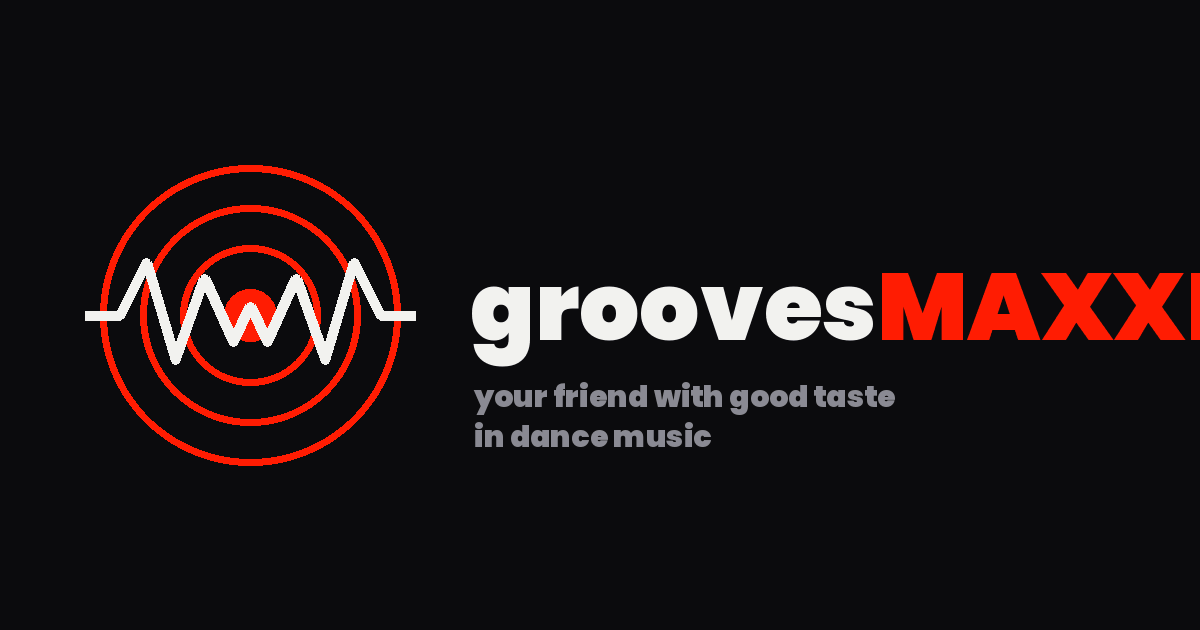
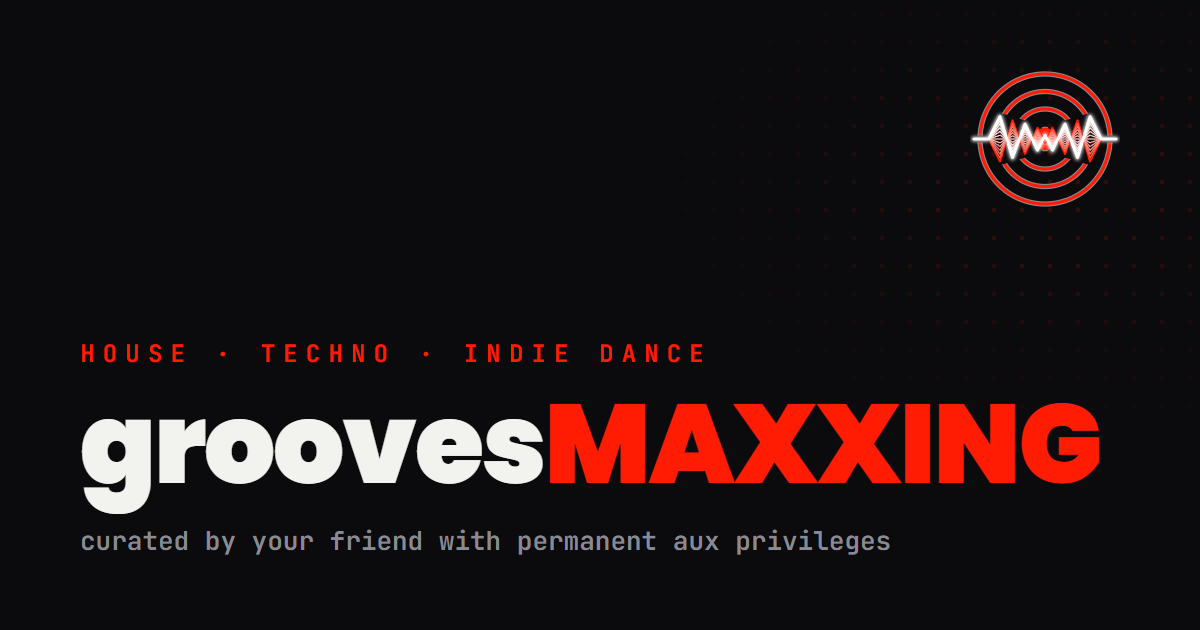
search page out of the index, new generic share card, preflight fails a noindex page in the sitemap
seo p2-9 and p2-6. /search gets noindex and leaves the sitemap, /radio stays. og-image.png redrawn in the card look with the full wordmark.

diff --git a/search.html b/search.html
@@ -12,6 +12,7 @@
 <meta name="apple-mobile-web-app-title" content="groovesMAXX">
 <title>search · groovesMAXXING</title>
 <meta name="description" content="one search box for the whole site: every artist, label, set, talk, tracklist and newsletter issue.">
+<meta name="robots" content="noindex">
 <link rel="icon" href="favicon.svg" type="image/svg+xml">
 <link rel="icon" type="image/png" sizes="32x32" href="favicon.png">
 <link rel="icon" type="image/png" sizes="16x16" href="favicon-16.png">

diff --git a/.github/scripts/preflight.py b/.github/scripts/preflight.py
@@ -16,7 +16,8 @@ FAIL blocks the push. WARN prints and passes. the checks:
              ld+json MusicRecording carries no sameAs (2026-11-09)
   mobile     a page with its own inline style and no @media block is flagged
   json       every json file at the root parses
-  sitemap    every sitemap url resolves to a file, and every indexable root page is in the sitemap
+  sitemap    every sitemap url resolves to a file that is not noindex or a refresh stub, and every indexable
+             root page is in the sitemap
   banned     BANNED_STRINGS (env, comma separated, set as a repo secret) never appear in any tracked text
              file. the string itself is never printed, only the file and line.
   export     tracklists/_export/index.json, when the recognizer's export is there (2026-10-28, packet 10 of the
@@ -291,6 +292,9 @@ def check_sitemap(page_list, redirects):
         listed.add(t)
         if not t or not os.path.exists(t):
             fail("sitemap.xml", "url has no file: %s" % u)
+        # a listed url must be indexable: a noindex page or a refresh stub in the sitemap is a mixed signal (seo p2-9)
+        elif re.search(r'<meta name="robots" content="[^"]*noindex|http-equiv="refresh"', open(t, encoding="utf-8").read(), re.I):
+            fail("sitemap.xml", "url is noindex or a redirect stub, drop it from the sitemap: %s" % u)
     for f in page_list:
         if "/" in f and not f.startswith(("artists/", "labels/", "tracklists/", "newsletter/")):
             continue
